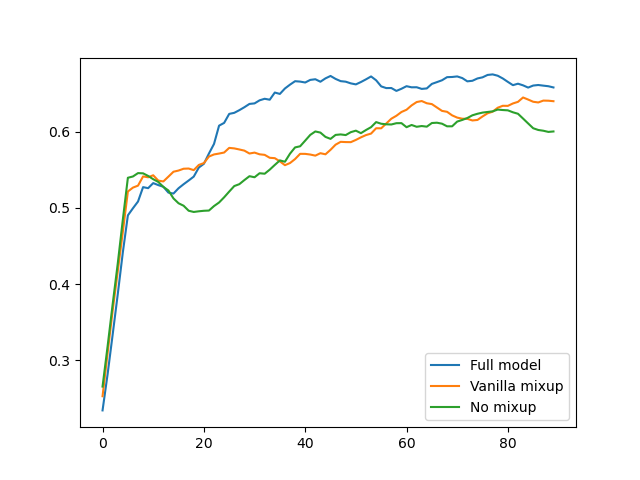
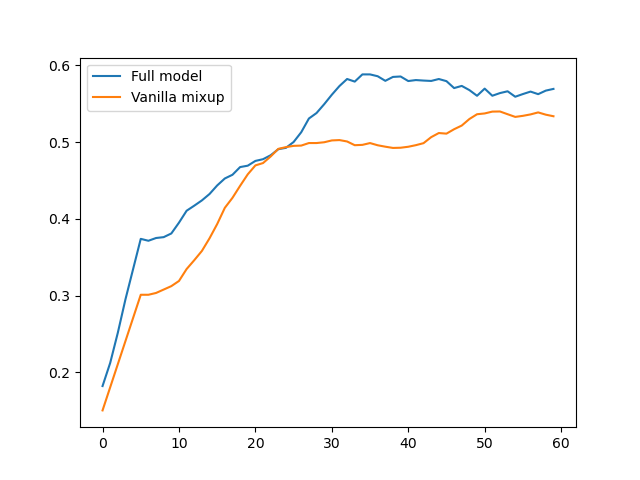
Fix

diff --git a/m3a/m3a_ssmix_optuna.py b/m3a/m3a_ssmix_optuna.py
@@ -672,11 +672,11 @@ def custom_training(model, train_set, X_text_Test, X_audio_Test, X_pos_Test, X_s
         report = classification_report(YTest, predTest, output_dict=True)
         if best_report is None:
             best_report = report
-            model.save_weights(f'./saved_models/m3anet_{best_report["weighted avg"]["f1-score"]}.ckpt')
+            model.save_weights(f'./saved_models/{args["model_name"]}_{args["run_name"]}_{best_report["weighted avg"]["f1-score"]}')
         elif best_report['weighted avg']['f1-score'] < report['weighted avg']['f1-score']:
             best_report = report
             best_mcc = mcc
-            model.save_weights(f'./saved_models/m3anet_{best_report["weighted avg"]["f1-score"]}.ckpt')
+            model.save_weights(f'./saved_models/{args["model_name"]}_{args["run_name"]}_{best_report["weighted avg"]["f1-score"]}')
         print(f"Weighted f1 score = {best_report['weighted avg']['f1-score']}")
         print()
 
@@ -834,13 +834,6 @@ def custom_training_sh(model, train_set, X_text_Test, X_audio_Test, X_pos_Test, 
                 
                 lam = np.random.beta(0.5, 0.5)
     
-                # temp1 = np.sum(audio, axis=2)
-                # temp2 = np.count_nonzero(temp1, axis=1)
-                # print(audio.shape)
-                # print(temp1.shape)
-                # print(temp2.shape)
-                # sys.exit(0)
-                # lam_not = np.random.beta(0.5, 0.5)
                 lam_not = args['lam_inter']
                 if args['data'] == 'm3a':
                     span_len = lam_not * 64

diff --git a/test.py b/test.py
@@ -14,14 +14,15 @@ def smooth(y, box_pts):
     return y_smooth
 
 # %%
-df_full_model = pd.read_csv('plots/f1_mustard_full_model.csv')
-df_vanilla_mixup = pd.read_csv('plots/f1_mustard_vanilla_mixup.csv')
-df_no_mixup = pd.read_csv('plots/f1_mustard_no_mixup.csv')
+ds = 'm3a'
+df_full_model = pd.read_csv(f'plots/f1_{ds}_full_model.csv')
+df_vanilla_mixup = pd.read_csv(f'plots/f1_{ds}_vanilla_mixup.csv')
+# df_no_mixup = pd.read_csv('plots/f1_ec_no_mixup.csv')
 
-plt.plot(smooth(df_full_model['f1'], 10)[:90])
-plt.plot(smooth(df_vanilla_mixup['f1'], 10)[:90])
-plt.plot(smooth(df_no_mixup['f1'], 10)[:90])
-plt.legend(['Full model', 'Vanilla mixup', 'No mixup'])
-plt.savefig('test.png')
+plt.plot(smooth(df_full_model['f1'], 10)[:60])
+plt.plot(smooth(df_vanilla_mixup['f1'], 10)[:60])
+# plt.plot(smooth(df_no_mixup['f1'], 10)[:130])
+plt.legend(['Full model', 'Vanilla mixup'])
+plt.savefig(f'{ds}_plot.png')
 
 
